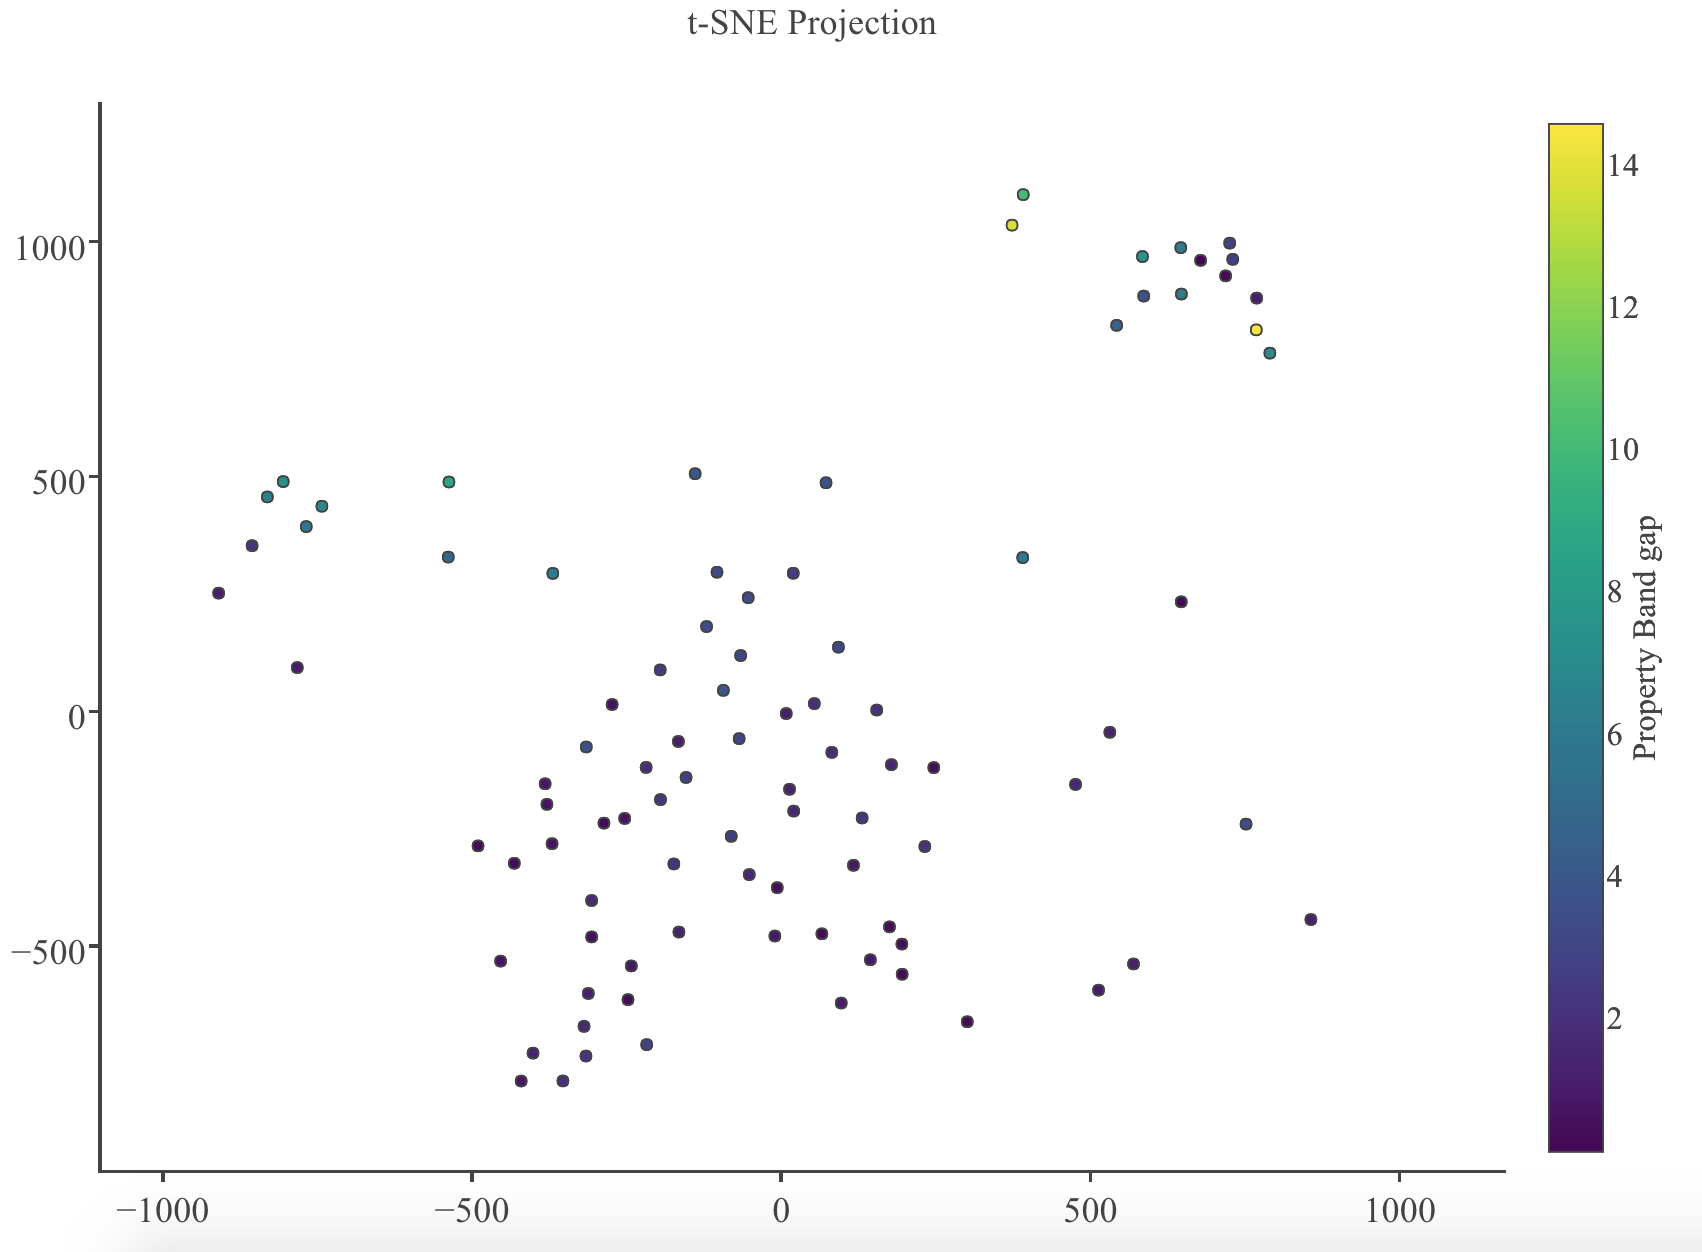
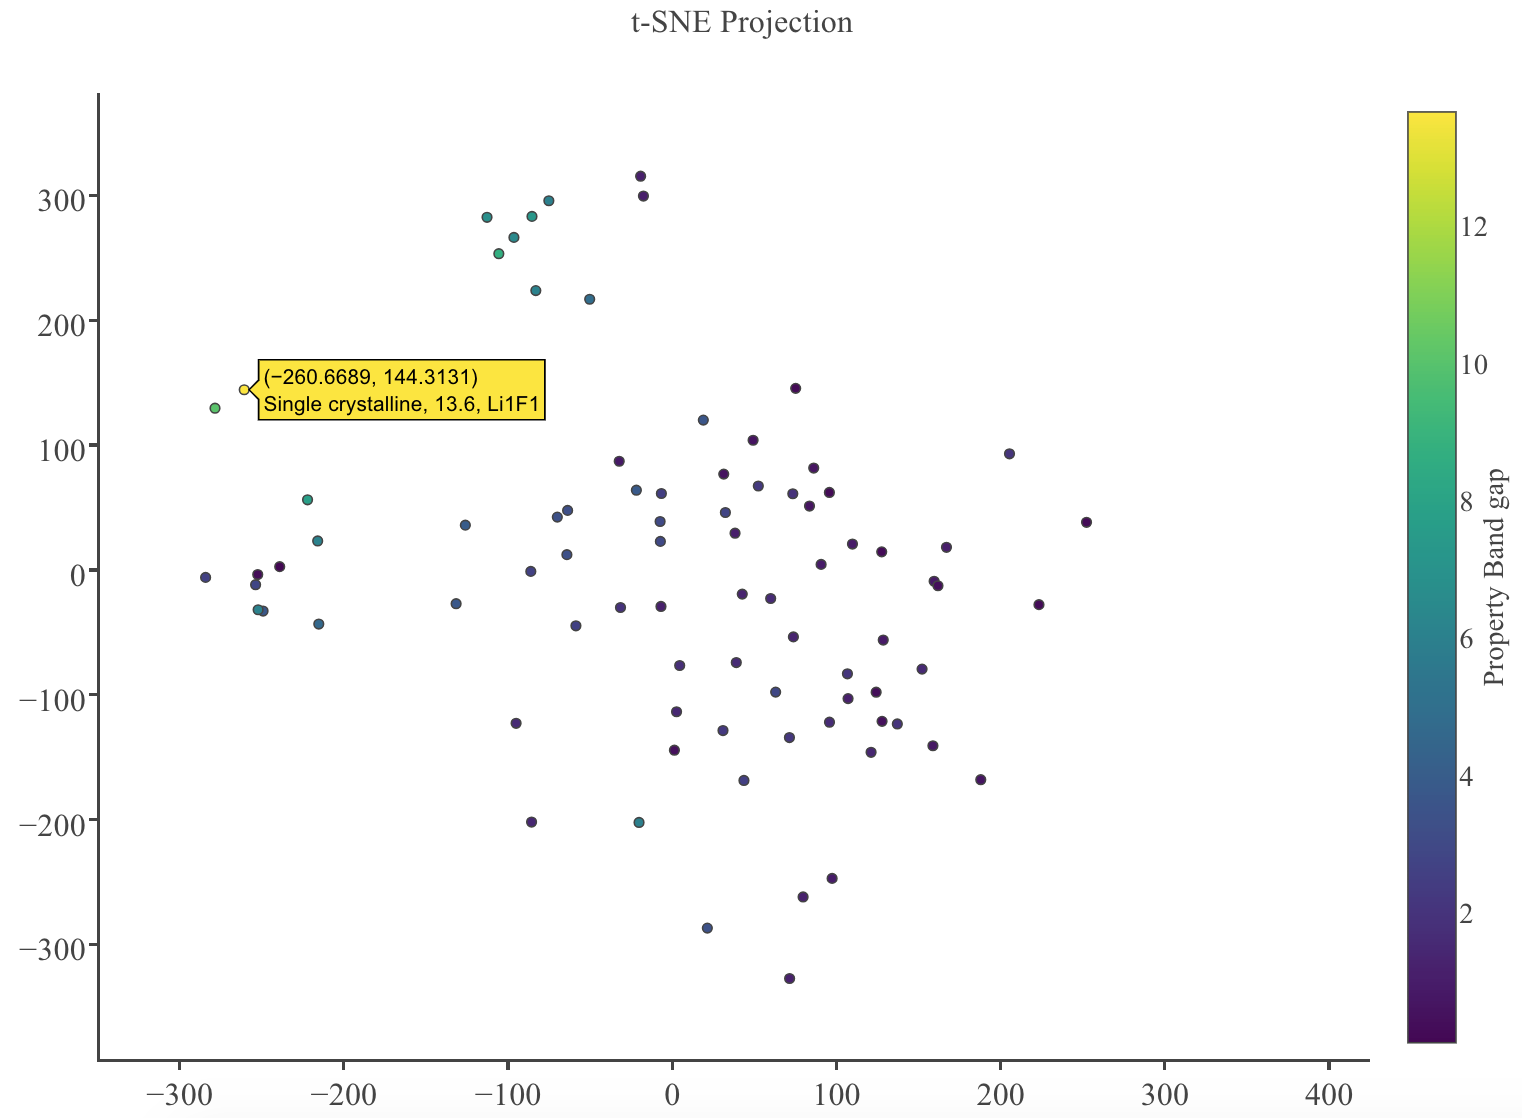
first-pass ML guides

diff --git a/web_ui_examples/06_machine_learning.md b/web_ui_examples/06_machine_learning.md
@@ -8,11 +8,11 @@ After reading this guide^, you should be familiar with:
 * Choosing the set of inputs and output for a ML model
 * Assessing model quality through Model Reports     
 
-^ *Note*: This guide is quite dense and will likely take many read-throughs before things start to fully click. Turns out, ML is [h](https://machinelearningmastery.com/applied-machine-learning-is-hard/)[a](https://developers.google.com/machine-learning/problem-framing/hard)[r](http://ai.stanford.edu/~zayd/why-is-machine-learning-hard.html)[d](https://www.forbes.com/sites/janakirammsv/2018/01/01/why-do-developers-find-it-hard-to-learn-machine-learning/#7d62eccf6bf6); when applied to materials science, it might be [even harder](https://youtu.be/28Ue_jteKI4?t=254).
+^ *Note*: This guide is *quite dense* and will likely take many read-throughs before things start to click. There are many external links for context, but they are not essential (you can ignore them if they're distracting) and you should not feel like you have to understand everything right away. Turns out, ML is [h](https://machinelearningmastery.com/applied-machine-learning-is-hard/)[a](https://developers.google.com/machine-learning/problem-framing/hard)[r](http://ai.stanford.edu/~zayd/why-is-machine-learning-hard.html)[d](https://www.forbes.com/sites/janakirammsv/2018/01/01/why-do-developers-find-it-hard-to-learn-machine-learning/#7d62eccf6bf6); when applied to materials science, it might be [even harder](https://youtu.be/28Ue_jteKI4?t=254).
 
 ## Background knowledge
 To get the most out of this guide, it is helpful to be familiar with:
-* How to create [data views](https://citrination.com/data_views/) on Citrination ([guide](03_data_view.md)).
+* How to create [data views](https://citrination.com/data_views/) on Citrination ([guide](03_data_views.md)).
 * Basic machine learning. This is understandably vague and requires prerequisites in and of itself.
   * [This YouTube video](https://www.youtube.com/watch?v=nWk6QlwvXok), made by Julia Ling, gives an introduction to ML for materials science.
   * [This visual](http://www.r2d3.us/visual-intro-to-machine-learning-part-1/) is also a gentle introduction.
@@ -22,16 +22,18 @@ You might recall in the [Data Views guide](03_data_views.md) that we deferred co
 
 ![ML config](fig/51_ml_config.png "ML config")
 
+### Set column types
+
 It is helpful to expand the description ("Show More") and read about the various parameters on this page. On the bottom of that page, each property is listed with its **Descriptor Type** (Categorical, Real, Organic, Inorganic, Alloy), **Parameter Type** (Input, Output, Latent variable, Ignore), and **Values**. If you would like to change a setting, click "edit" next to the corresponding property. You need to have at least one input and at least one output (this is the [supervised learning](https://bigdata-madesimple.com/machine-learning-explained-understanding-supervised-unsupervised-and-reinforcement-learning/) paradigm).
 
-For this tutorial, we'll edit "Property Crystallinity" because we want it as an Input rather than an Output.
+For this tutorial, we'll edit "Property Crystallinity" because we want it as an Input rather than an Output. Specifically, we will use Chemical Formula (Inorganic) and Crystallinity (Categorical) to predict the Band Gap (Real).
 
 ![Set columns](fig/52_set_col_types.png "Set columns")
 
 The above menu will open up, allowing you to change the Variable Type to "Input." Depending on the Descriptor Type, this menu will show different options. *Categorical* descriptors will have all the categories listed for you to include (all are included by default), while *Real* descriptors will have a range of values for you to include. When you're all done—the other properties are fine, though it's a good idea to check each one—click "Okay" to collapse the menu, and finally **Save** at the very top.
 
 ## Model training
-"Training" is the term that refers to a ML model learning the relationships in the data given. Blue progress bars will display at the top of your screen indicating which step it's currently on.
+"Training" is the term that refers to a ML model learning the relationships in the data given. In the background, Citrination trains a **random forest (RF)** model ([Wikipedia](https://en.wikipedia.org/wiki/Random_forest), [Brieman himself](https://www.stat.berkeley.edu/~breiman/RandomForests/cc_home.htm), [~accurate layman example](http://blog.echen.me/2011/03/14/laymans-introduction-to-random-forests/)) to fit the data. Blue progress bars will display at the top of your screen indicating which step of the training process it's currently on.
 
 ![Model training](fig/55_model_training.png "Model training")
 
@@ -50,37 +52,49 @@ The "Data Summary" page will load by default and show two plots for each *output
 
 <img src="fig/54_reports_pearson.png" alt="Pearson correlation" width="500" height="234">
 
-You will also notice that the input we selected was "Chemical Formula," but the actual features that were generated were statistical metrics over elemental properties such as "electronegativity" and "atomic fraction." These are derived from the [Magpie](http://oqmd.org/static/analytics/magpie/doc/) library and explained in [this paper](https://www.nature.com/articles/npjcompumats201628).
+You will also notice that the input we selected was "Chemical Formula," but the actual features that were generated are statistical metrics over elemental properties such as "electronegativity" and "atomic fraction." These are derived from the [Magpie](http://oqmd.org/static/analytics/magpie/doc/) library and explained in [this paper](https://www.nature.com/articles/npjcompumats201628).
 
-The second figure on the "Data Summary" page is a **t-SNE** plot, which is short for t-Distributed Stochastic Neighbor Embedding. As you saw above, materials tend to live in *high-dimensional space*, meaning that there are tens to hundreds of features used to represent a material, and it can be very difficult to visualize and wrap our minds around 100+ dimensions. Therefore, we employ t-SNE as a *dimensionality reduction* technique to project the data onto 2 dimensions for ease of visualization, as shown below.
+The second figure on the "Data Summary" page is a **t-SNE** plot, which is short for t-Distributed Stochastic Neighbor Embedding. As you saw above, materials tend to live in *high-dimensional space*, meaning that there are tens to hundreds of features used to represent a material, and it is impossible to visualize and wrap our minds around 100+ dimensions. Therefore, we employ t-SNE as a *dimensionality reduction* technique to project the data onto 2 dimensions for ease of visualization, as shown below.
 
 <img src="fig/54_reports_tsne.png" alt="t-SNE plot" width="650" height="478">
 
-This technique was developed about [a decade ago](https://lvdmaaten.github.io/tsne/) ([easier explanation](https://www.analyticsvidhya.com/blog/2017/01/t-sne-implementation-r-python/)) and it's a powerful projection tool because nearby points in high dimensional space remain close in 2D while distant points remain far apart. 
-
+This technique was developed about [a decade ago](https://lvdmaaten.github.io/tsne/) ([simpler explanation](https://www.analyticsvidhya.com/blog/2017/01/t-sne-implementation-r-python/)) and it's a powerful projection tool because nearby points in high dimensional space remain close in 2D while distant points remain far apart. The points in our plot are color-coded based on the property value (as indicated by the color bar), and you can hover over each data point to obtain more information such as the chemical formula. t-SNE plots are helpful for identifying clusters and trends in your data. Note that because the t-SNE plot is stochastic (i.e. random), it will change if you retrain your View.
 
 ### Model performance
+Next we switch over to the "Model Report" tab, which displays how well your model performed at predicting each output variable from the set of inputs you provided. Let's expand the "Property Band gap" header.
 
-![Model summary](fig/55_model_summary.png "Model summary")
+![Model settings](fig/55_model_settings.png "Model settings")
 
+Under **Model Settings**, you will find the parameters used to fit the [lolo RF](https://github.com/CitrineInformatics/lolo) model. All of these settings are chosen automatically (internally) to give the best performance, and the two that we want to highlight in particular are:
+* **Jackknife uncertainty estimation**: When set to *true*, this means the [jackknife method](http://jmlr.org/papers/volume15/wager14a/wager14a.pdf) is used to estimate the variance, and thereby uncertainty, in the RF estimators.
+* **Cross-validation folds**: [Cross validation](https://towardsdatascience.com/cross-validation-70289113a072) (CV) is an important technique in machine learning to determine model hyper-parameters and assess model effectiveness for extrapolation. *k*-fold CV refers to splitting the data into *k* groups, training on *k-1* groups, validating on the last group, and repeating this validation *k* times for each group left out.
 
 ![Feature importance](fig/55_model_features.png "Feature importance")
 
+Following the model settings is a ranked list of important features, calculated based on their contributions to how splits were made in the decision trees. This list is illuminating and informative both in the ways that it matches physical intuition (like "Maximum electronegativity difference") and in the ways that it deviates (therein lies the power of ML).
 
 ![Model performance](fig/55_model_performance.png "Model performance")
 
+Finally, we arrive at the model performance table, which gives four metrics that quantify the model performance. It's recommended to click on "Show More" the first several times and read through the explanations. Here, we will explain what each of the values means and what the ideal values correspond to.
+* **Root-mean-square error (RMSE)**: This value, in units of the predicted variable, measures the difference between predicted and actual values. We want this value to be as small as possible (hence 0.0 ideal), and the magnitude is property and units dependent.
+* **Non-dimensional model error (NDE)**: This value, boxed because it is arguably the most important metric, measures how your model performs against a naive model that guesses the mean value each time. The RMSE from your model is divided by the RMSE of the guess-the-mean model and this value is reported.
+* **Uncertainty: Fraction of actual values**: This value counts how many of the error bars, centered around the predicted value, include the actual values (green line below). Because the error bars represent 1 standard deviation, an ideal fraction, assuming normally distributed errors, is 0.68.
+* **Uncertainty: RMS of standard errors**: This value represents the error after scaling the predicted values and is ideally 1 for a true Normal distribution.
 
 ### Performance plots
 
+At the bottom of the page, we display two plots to visualize the model performance.
+
 <img src="fig/56_plot_pva.png" alt="Predicted vs. Actual plot" width="500" height="380">
 
+The first is a **Predicted vs. Actual plot**, which plots the values predicted by the model against the actual values from the data. The error bars represent +/- one standard deviation, and the green line represents the ideal behavior where every prediction matches the actual value. "Extrapolating" values are for examples that are sufficiently different from the training data (based on a proprietary metric), while "Not extrapolating" values are examples that are similar to the training data and *typically* exhibit higher predictive accuracy. This plot is interactive, so you can hover over the points to reveal more information, zoom in/out, and click in the legend to reveal/hide different sets of points.
 
 <img src="fig/56_plot_residual.png" alt="Distribution of residuals" width="500" height="395">
 
-
+The second plot is a distribution of residuals, which is the signed difference (prediction - actual). This gives another visual interpretation of our model, in the hopes that for many cases, our errors are small and normally distributed around 0. The orange bars contain all the residuals and the blue curve is a normal distribution fit to the bars.
 
 ## Conclusion
-Whew! This concludes our lengthy discussion of ML on Citrination. At this point, you should be familiar with:
+Ta-da! This concludes our discussion of ML on Citrination. At this point, you should be familiar with:
 * Choosing the set of inputs and output for a ML model
 * Assessing model quality through Model Reports
 

diff --git a/web_ui_examples/07_predict_design.md b/web_ui_examples/07_predict_design.md
@@ -15,28 +15,46 @@ To get the most out of this guide, it is helpful to be familiar with:
 * [Uncertainty quantification](https://arxiv.org/pdf/1704.07423.pdf) in Citrination
 
 ## Predict
+If you open your [Data View](03_data_views.md) and have [ML configured](06_machine_learning.md), then you will see **Predict** in your View menu options. Clicking on that will take you to the following page:
 
 <img src="fig/61_predict_input.png" alt="Predict input" width="650" height="361">
 
+Here you can request predictions for new materials by supplying inputs to the the model you trained. You will see an input option corresponding to each input variable you had previously selected. Let's try to make a prediction for single crystalline boron nitride (BN).
 
 <img src="fig/62_predict_plot.png" alt="Predict plot" width="500" height="383">
 
+You should get an output that resembles the one above. The exact values will differ due to the randomness in the random forest model. It's important to know that the value and uncertainty of the prediction appear at the top. The plot gives a visual representation for how these numbers were obtained. Namely, samples were drawn from the distribution of material properties and the orange curve was fit to these samples; the final prediction is the mean and standard deviation of this orange curve.
 
 ## Design
+The second menu option in data views that now appears is **Design**, which enumerates a list of candidate materials for you.
 
 ![Design settings 1](fig/63_design_settings1.png "Design settings 1")
 
-<img src="fig/63_design_settings2.png" alt="Design settings 2" width="600" height="524">
+At the top, the "Run" button is highlighted in blue—but before we press that, we have to set the design configurations.
 
+### General settings
+* **Design Duration**: How long to run the search for new materials. Intuitively, a longer time results in a higher chance of finding the best materials. We'll just choose `1 minute` for demonstration.
+* **Number of Candidates**: The number of top candidate materials to keep in the final list. This doesn't affect the design time, only how many results you care to display. We'll keep this at `10`.
 
-<img src="fig/64_design_mei.png" alt="Design MEI" width="600" height="307">
+### Input settings
+* **Design Space**: What types of materials to search over. `Default` generates new candidates based on the data view while `This view` restricts the search space to materials in the data view. We'll choose `Default`.
+* **Input Constraints**: These constraints further limit the design space. For categorical variables, you can select which categories you want the design endpoint to consider. For an input formula, you can combine logic with chemical formulas to filter specific elements. We'll include all options.
 
+### Output settings
+* **Targets**: Select which property you are designing materials for and for what goal (`Min`, `Max`, or a specific `Value`). We will use `Max` in this example.
+* **Target Constraints**: These constraints further limit the design space by setting restrictions on what values the *predicted* output can take. Candidates that are predicted to have values outside of this range will *not* appear. We'll keep this range from `0` to `Infinity`.
 
+<img src="fig/63_design_settings2.png" alt="Design settings 2" width="400" height="349">
+
+### Design results
+There are two sets of candidates returned from the design process. The first set, **Maximum Expected Improvement (MEI)**, lists materials in ranked order of the materials expected to best maximize the targets and satisfy the constraints. The name comes from the fact that these candidates have a mean predicted value that is higher than all other candidates. The "MEI Score" isn't particularly important other than establishing a ranking. If you scroll to the right, you will see the chemical formula along with the predicted values and uncertainty. You want to look for candidates with a non-zero uncertainty, because those are new candidates that aren't found in the training data.
+<img src="fig/64_design_mei.png" alt="Design MEI" width="450" height="393">
+
+The second set of materials, **Maximum Likelihood of Improvement (MLI)**, selects candidates most likely to have a higher target value than the best previously measured material, after the uncertainty has been taken into account (for a more in-depth discussion, see [this paper](https://arxiv.org/pdf/1704.07423.pdf)). The results table that is generated can be interpreted similarly to the first one.
 <img src="fig/64_design_mli.png" alt="Design MLI" width="600" height="323">
 
-
+Finally, at the top right of the page, you have the option of saving design results. You can then click "View Saved Candidates" at a later date and access your history of saved design runs for reference or further optimization.
 <img src="fig/65_design_history.png" alt="Design history" width="500" height="190">
-
 
 ## Conclusion
 

diff --git a/web_ui_examples/04_search.md b/web_ui_examples/04_search.md
@@ -34,9 +34,9 @@ We will use the dataset we uploaded in a [previous tutorial](02_data_management.
 
 ![Metal oxides](fig/32_search_oxides.png "Metal oxides")
 
-Now we will search by property to find high band gap materials in this dataset. Clear the "Material Name" field and enter `Band gap` for the "Property Name." Click "Advanced Search Options" and enter `10` for the Minimum Value. When you press enter, you should see three PIF records appear (CaF2, LiF, BeO), corresponding to materials in this datasets with a band gap higher than 10 eV.
+Now we will search by property to find high band gap materials in this dataset. Clear the "Material Name" field and enter `Band gap` for the "Property Name." Click "Advanced Search Options" and enter `10` for the Minimum Value. When you press enter, you should see three PIF records appear (CaF2, LiF, BeO), corresponding to materials in this dataset with a band gap higher than 10 eV.
 
 ![Band gap](fig/33_search_bandgap.png "Band gap")
 
 ## Conclusion
-This concludes our short discussion of how to search for data using the Citrination UI. If you have further questions, please do not hesitate to [Contact Us](https://citrine.io/contact/).
+This concludes our discussion of how to search for data using the Citrination UI. If you have further questions, please do not hesitate to [Contact Us](https://citrine.io/contact/).
